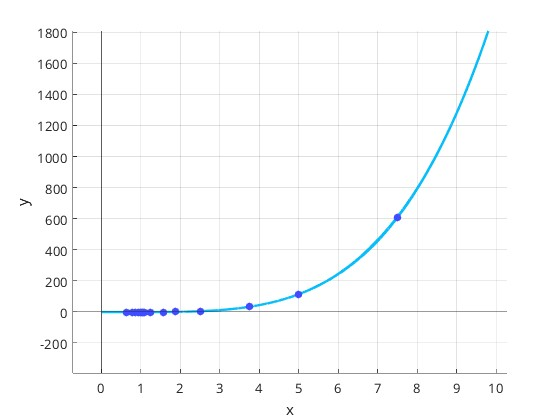
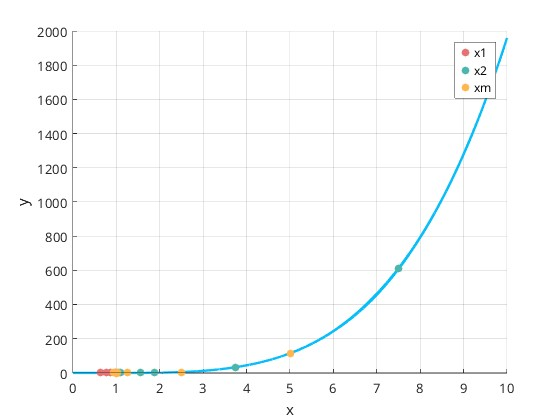
changed plotting to bisection method

diff --git a/01-lab/plot/plot_bisection_method_points.m b/01-lab/plot/plot_bisection_method_points.m
@@ -1,0 +1,16 @@
+function plot_bisection_method_points(f, selected_points)
+    x1_list = selected_points(2:3:end);
+    x2_list = selected_points(3:3:end);
+    xm_list = selected_points(1:3:end);
+
+    graph_x1 = scatter(x1_list, f(x1_list), "filled"); hold on;
+    graph_x1.MarkerFaceColor = '#E57373';
+    
+    graph_x2 = scatter(x2_list, f(x2_list), "filled"); hold on;
+    graph_x2.MarkerFaceColor = '#4DB6AC';
+    
+    graph_xm = scatter(xm_list, f(xm_list), "filled"); hold on;
+    graph_xm.MarkerFaceColor = '#FFB74D';
+
+    legend([graph_x1, graph_x2, graph_xm], {'x1', 'x2', 'xm'})
+end

diff --git a/01-lab/main.m b/01-lab/main.m
@@ -24,7 +24,7 @@ plot_function(f, -10, 10);
 
 figure(2);
 plot_function(f, interest_left_end, interest_right_end);
-plot_selected_points(f, bisection_method_x_values);
+plot_bisection_method_points(f, bisection_method_x_values);
 
 figure(3);
 plot_function(f, interest_left_end, interest_right_end);
